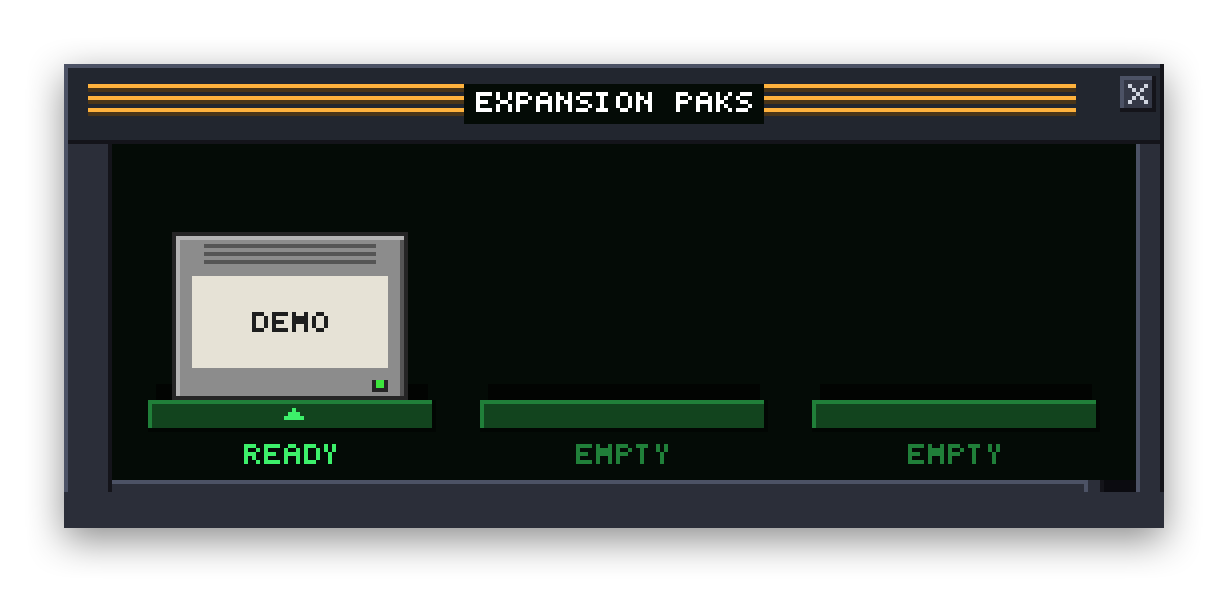
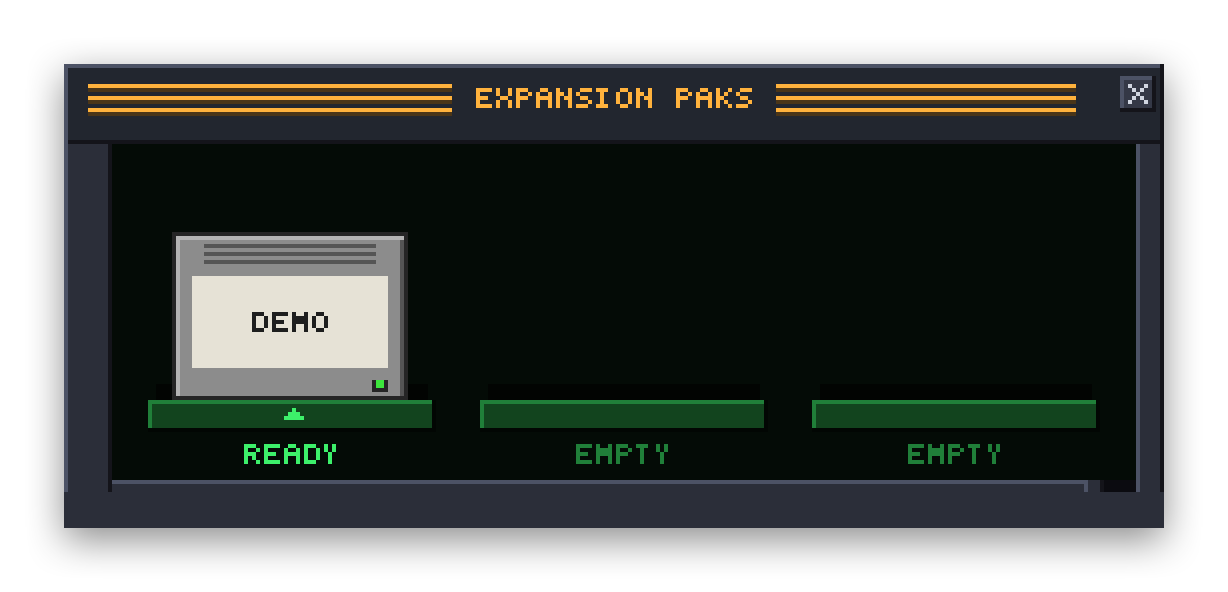
Document the Media Library, with a README picture
The README's Expansion Paks section shows and describes the Media Library
(invented albums with patterned covers, rendered by ShowcaseTests); the
other README pictures are re-rendered too, since the windows' titles now
use the skin's own lettering. PAKS.md describes the window as built and
what's not done yet, and PAK-SDK.md says where a Pak's songs now show.
The search box's placeholder ends in an ellipsis when it doesn't fit.

Changed region(s): [[0.3713, 0.1216, 0.6498, 0.2128]]

diff --git a/Tests/BitampTests/ShowcaseTests.swift b/Tests/BitampTests/ShowcaseTests.swift
@@ -164,6 +164,150 @@ struct ShowcaseTests {
     }
 }
 
+extension ShowcaseTests {
+    /// The Media Library for the README: invented albums with patterned covers, in the
+    /// default skin, at 2× like the main picture's 4× in the README's units.
+    @Test func library() async throws {
+        try FileManager.default.createDirectory(at: folder, withIntermediateDirectories: true)
+        let preferences = Preferences(defaults: UserDefaults(suiteName: "BitampShowcase-\(UUID().uuidString)")!)
+        let pak = ShowcaseLibraryPak()
+        let controller = PlaybackController(engine: PlayerEngine(), preferences: preferences, paks: PakRegistry([pak], preferences: preferences))
+        let view = MediaLibraryView(controller: controller, skin: DefaultSkin(), scale: 1)
+        view.show(pak)
+        for _ in 0..<200 where view.shown?.items.isEmpty != false { try await Task.sleep(for: .milliseconds(5)) }
+        view.moveFocus(to: 0)
+        // Draw once so the covers in view are asked for, then let them arrive.
+        _ = try image(view)
+        try await Task.sleep(for: .milliseconds(200))
+        try compose([Placed(image: try image(view), size: view.pixelSize, origin: .zero)], factor: 2)
+            .write(to: folder.appendingPathComponent("media-library.png"))
+    }
+}
+
+/// Invented albums for the Media Library picture.
+@MainActor
+private final class ShowcaseLibraryPak: Pak {
+    let id = "applemusic"
+    let name = "Apple Music"
+    let schemes: Set<String> = ["showcase"]
+    let isAvailable = true
+    let account = PakAccount.connected(name: nil)
+    var canBrowse: Bool { true }
+
+    static let albums = [
+        ("Analog Weather", "Signal Lost"), ("Neon Tide", "Pixel Harbor"), ("Dial-Up Sunrise", "The Low Bits"),
+        ("Cassette Hearts", "Mira Vance"), ("Midnight Modem", "Kilobyte Club"), ("Paper Planets", "Vector Bloom"),
+        ("Summer on Repeat", "Old Stereo"), ("Harbor Lights", "Pixel Harbor"), ("Static Garden", "Signal Lost"),
+        ("Low Tide FM", "The Low Bits"), ("Glass Arcade", "Mira Vance"), ("Afterglow Drive", "Vector Bloom"),
+        ("Floppy Love", "Kilobyte Club"), ("Backseat Radio", "Old Stereo"), ("Chrome Orchard", "Vector Bloom"),
+        ("Saturday Sprites", "The Low Bits"), ("Night Bus", "Mira Vance"), ("Tape Hiss", "Old Stereo"),
+    ]
+
+    func browse(_ location: PakLocation, after cursor: String?) async throws -> PakPage {
+        switch location {
+        case .root:
+            let library = ["Recently Added", "Albums", "Artists", "Songs", "Playlists"]
+            let catalog = ["For You", "Recently Played", "Top Charts"]
+            func sections(_ titles: [String]) -> [PakItem] {
+                titles.map { .place(PakPlace(id: "section/\($0)", kind: .section, title: $0)) }
+            }
+            return PakPage(shelves: [PakShelf(title: "Library", items: sections(library)),
+                                     PakShelf(title: "Apple Music", items: sections(catalog))])
+        default:
+            return PakPage(shelves: [PakShelf(items: Self.albums.enumerated().map { index, album in
+                .place(PakPlace(id: "album/\(index)", kind: .album, title: album.0, subtitle: album.1,
+                                artwork: PakArtwork("\(index * 7 + 3)")))
+            })])
+        }
+    }
+
+    func image(for artwork: PakArtwork, size: Int) async -> CGImage? {
+        UInt64(artwork.id).map { showcaseCover($0, size: size) }
+    }
+
+    func connect() async throws {}
+    func disconnect() {}
+    func search(_ term: String) async throws -> [PakTrack] { [] }
+    func metadata(for url: URL) async -> PakTrack? { nil }
+    func playback(for url: URL) throws -> PakPlayback { throw CocoaError(.featureUnsupported) }
+}
+
+/// An abstract cover, the same design at any size.
+func showcaseCover(_ seed: UInt64, size: Int) -> CGImage {
+    var random = SplitMix64(seed: seed &* 2654435761)
+    func unit() -> CGFloat { CGFloat(random.next() % 10_000) / 10_000 }
+    let context = CGContext(data: nil, width: size, height: size, bitsPerComponent: 8, bytesPerRow: 0,
+                            space: CGColorSpace(name: CGColorSpace.sRGB)!,
+                            bitmapInfo: CGImageAlphaInfo.premultipliedLast.rawValue)!
+    context.setShouldAntialias(true)
+    let s = CGFloat(size)
+    let hue = unit()
+    func color(_ h: CGFloat, _ sat: CGFloat, _ bright: CGFloat) -> CGColor {
+        NSColor(hue: (h.truncatingRemainder(dividingBy: 1) + 1).truncatingRemainder(dividingBy: 1),
+                saturation: sat, brightness: bright, alpha: 1).cgColor
+    }
+    let top = color(hue, 0.7, 0.35), bottom = color(hue + 0.12, 0.8, 0.85)
+    let accent = color(hue + 0.5, 0.75, 1), light = color(hue + 0.08, 0.25, 1)
+    let gradient = CGGradient(colorsSpace: CGColorSpace(name: CGColorSpace.sRGB), colors: [bottom, top] as CFArray, locations: [0, 1])!
+    context.drawLinearGradient(gradient, start: .zero, end: CGPoint(x: 0, y: s), options: [])
+
+    switch seed % 6 {
+    case 0: // sun over stripes
+        context.setFillColor(accent)
+        context.fillEllipse(in: CGRect(x: s * 0.2, y: s * 0.25, width: s * 0.6, height: s * 0.6))
+        context.setFillColor(bottom)
+        for i in 0..<5 {
+            let y = s * (0.28 + CGFloat(i) * 0.08)
+            context.fill(CGRect(x: 0, y: y, width: s, height: s * 0.012 * CGFloat(5 - i) + 1))
+        }
+    case 1: // rings
+        for i in (0..<6).reversed() {
+            context.setFillColor(i % 2 == 0 ? accent : top)
+            let r = s * 0.08 * CGFloat(i + 1)
+            context.fillEllipse(in: CGRect(x: s * 0.5 - r, y: s * 0.5 - r, width: r * 2, height: r * 2))
+        }
+    case 2: // mountains
+        for (i, shade) in [light, accent, top].enumerated() {
+            context.setFillColor(shade)
+            let base = s * (0.1 + CGFloat(i) * 0.12) - s * 0.2
+            context.beginPath()
+            context.move(to: CGPoint(x: -s * 0.1, y: 0))
+            context.addLine(to: CGPoint(x: s * unit(), y: s * 0.75 - base))
+            context.addLine(to: CGPoint(x: s * 1.1, y: 0))
+            context.fillPath()
+        }
+    case 3: // diagonal stripes
+        context.setFillColor(accent)
+        for i in stride(from: -4, to: 8, by: 2) {
+            let x = s * CGFloat(i) * 0.12
+            context.beginPath()
+            context.move(to: CGPoint(x: x, y: 0))
+            context.addLine(to: CGPoint(x: x + s * 0.12, y: 0))
+            context.addLine(to: CGPoint(x: x + s * 0.72, y: s))
+            context.addLine(to: CGPoint(x: x + s * 0.6, y: s))
+            context.fillPath()
+        }
+    case 4: // bubbles
+        for _ in 0..<7 {
+            context.setFillColor((unit() > 0.5 ? accent : light).copy(alpha: 0.75)!)
+            let r = s * (0.08 + unit() * 0.2)
+            context.fillEllipse(in: CGRect(x: s * unit() - r, y: s * unit() - r, width: r * 2, height: r * 2))
+        }
+    default: // checker floor and a moon
+        context.setFillColor(light)
+        context.fillEllipse(in: CGRect(x: s * 0.55, y: s * 0.58, width: s * 0.28, height: s * 0.28))
+        let cells = 6
+        for row in 0..<3 {
+            for column in 0..<cells where (row + column) % 2 == 0 {
+                context.setFillColor(accent)
+                let w = s / CGFloat(cells)
+                context.fill(CGRect(x: CGFloat(column) * w, y: CGFloat(row) * w * 0.7, width: w, height: w * 0.7))
+            }
+        }
+    }
+    return context.makeImage()!
+}
+
 /// Stands in for the demo Pak in the Expansion Paks picture, without running its program.
 @MainActor
 private final class ShowcasePak: Pak {

diff --git a/Sources/BitampKit/UI/PakView.swift b/Sources/BitampKit/UI/PakView.swift
@@ -79,7 +79,8 @@ enum PakLayout {
 }
 
 /// The Expansion Paks window: each Pak as an N64-style cartridge in a slot. Click a
-/// cartridge to browse it in the Media Library, click the slot's front plate to eject or insert it.
+/// cartridge to browse it in the Media Library, click the slot's front plate to eject or
+/// insert it.
 ///
 /// The frame borrows the playlist's title and side tiles, so `.wsz` skins dress it too;
 /// the cartridges are drawn in fixed colors, as the plastic things they are. Dropping a

diff --git a/Sources/BitampKit/UI/PixelTextBox.swift b/Sources/BitampKit/UI/PixelTextBox.swift
@@ -105,7 +105,7 @@ final class PixelTextBox: NSObject, NSTextFieldDelegate {
         c.context.clip(to: inner)
         let left = Int(inner.minX) - scroll, top = Int(inner.minY)
         if text.isEmpty && editor == nil {
-            ListFont.draw(placeholder, in: c, x: left, y: top, color: dim)
+            ListFont.draw(ListFont.truncate(placeholder, toWidth: Int(inner.width)), in: c, x: left, y: top, color: dim)
         }
         if let editor {
             if selection.length > 0 {

diff --git a/docs/PAKS.md b/docs/PAKS.md
@@ -14,8 +14,8 @@ Optional add-ons that bring other music sources into Bitamp: Apple Music first, 
   - account: status, `connect()` (sign in / authorize), `disconnect()`
   - browsing: search, library, playlists → `[PakTrack]` (URL + metadata)
   - `resolve(url)` → `.stream(URL)` or `.backend(PlaybackBackend)`
-- **UI**: "Add from Apple Music…" opens a search panel that adds to the playlist. A Media Library window will replace it (see below). The **Expansion Paks window** (Window ▸ Expansion Paks, ⌥K) shows each Pak as an N64-style cartridge in a slot: click it to search, click the slot's front plate to eject or insert it, right-click for a menu. Its frame borrows the playlist's title and side tiles, so `.wsz` skins dress it. While a Pak plays audio Bitamp can't see or hear (before macOS 14.2, or without permission to listen), the main window's visualizer shows a small cartridge and the Pak's name; clicking it opens the window. The playlist shows nothing extra.
-- **Inserted or ejected**: every Pak starts inserted. Ejecting turns the service off: its tracks stay in playlists and the saved session, with their titles, but are skipped with "<NAME> PAK IS EJECTED", its search closes, and Bitamp doesn't contact it at all. Titles come from the playlist file (`#EXTINF`, read back since this change); a title never saved shows the track's ID until the Pak is inserted again.
+- **UI**: the **Media Library** (Window ▸ Media Library, ⌥L; File ▸ Browse <Pak>…, ⇧⌘A for the first) browses and searches one Pak and adds to the playlist; see below. The plain search panel it replaced is gone. The **Expansion Paks window** (Window ▸ Expansion Paks, ⌥K) shows each Pak as an N64-style cartridge in a slot: click it to browse it in the Media Library, click the slot's front plate to eject or insert it, right-click for a menu. Its frame borrows the playlist's title and side tiles, so `.wsz` skins dress it. While a Pak plays audio Bitamp can't see or hear (before macOS 14.2, or without permission to listen), the main window's visualizer shows a small cartridge and the Pak's name; clicking it opens the window. The playlist shows nothing extra.
+- **Inserted or ejected**: every Pak starts inserted. Ejecting turns the service off: its tracks stay in playlists and the saved session, with their titles, but are skipped with "<NAME> PAK IS EJECTED", the Media Library closes if it shows it, and Bitamp doesn't contact it at all. Titles come from the playlist file (`#EXTINF`, read back since this change); a title never saved shows the track's ID until the Pak is inserted again.
 
 ## Packaging
 - **Built-in Paks** are separate SwiftPM targets that depend only on `BitampPakKit` (`BitampAppleMusicPak`). The app registers them at launch, inserted. Apple Music has to be built in: MusicKit access is tied to the signed app's bundle ID (`com.ryanromanov.Bitamp`) and team.
@@ -27,8 +27,17 @@ Optional add-ons that bring other music sources into Bitamp: Apple Music first, 
 - Needs: MusicKit enabled for the `com.ryanromanov.Bitamp` App ID (developer portal → Identifiers → App Services), `NSAppleMusicUsageDescription` in Info.plist, Developer ID signing. The listener needs an Apple Music subscription to play catalog songs.
 - Bitamp stays on macOS 13; the Apple Music Pak is checked at runtime and shows as unavailable before macOS 14.
 
-## Media Library (planned)
-A skinned browser to replace the search panel, chosen over a native SwiftUI window: the playlist's frame, a tree sidebar (Search, Library, Playlists, Apple Music), a grid of covers and album pages. Spike results (2026-10-16; artwork from `spikes/musickit --art`, the search box from a throwaway window not kept in the repo):
+## Media Library
+A skinned browser, chosen over a native SwiftUI window (`MediaLibraryView`, `LibraryLayout`, `PixelTextBox`, `CoverCache`):
+- The frame the Expansion Paks window wears (`PanelFrame`: the skin's `gen.bmp`, else the playlist's tiles). A search box and the Pak's sections (`.root`) on the left; on the right a bar with Back, the page's title, PLAY and ADD, then the page: an album or playlist's header, songs as rows, albums, artists and playlists as 44 px covers. A Pak that doesn't browse shows `search ""` and searches.
+- Double-click opens a place or plays a song. PLAY and ADD take the selection, or with nothing selected, a whole album or playlist (`allTracks`). Right-click for Open, Play, Add. Arrow keys move through rows and covers (up and down keep to the column), Shift extends, Return opens or plays, Delete goes back, ⌘F or Tab to the search box. Songs, albums and playlists drag into the playlist where they're dropped (`MediaLibraryView.draggedItems`; the items stay with the view).
+- More of a long section loads near the end of it. Back returns to where the page was scrolled. Loads carry a generation number, so a late answer about an earlier page is dropped.
+- A panel in the window group (`.library`, layout name "LibraryWindow"): hidden by default, resizes from its bottom-right corner by the playlist's tiles (25 × 29), keeps its width across launches (`WindowGroup.place` takes a saved size), and the first time it opens off screen it goes beside the main window. Ejecting or removing its Pak empties and hides it. Left open at quit, it opens on the first Pak that can show it.
+- It redraws only when something changes (`SkinnedView.redrawsEveryFrame`), or every frame while the search box is edited, for the caret. With it open the app went from 25–35% of a core to 15–19%; the rest is the playlist and main window, which redraw every frame.
+- Covers are kept at the sizes drawn (44 and 64 px, averaged down from 3× that) in memory and in `~/Library/Caches/com.ryanromanov.Bitamp/Covers/<pak>`, found by Pak, artwork id and size, so a Pak's artwork ids must stay the same for the same picture. Apple Music's ids name what the art belongs to, since library art addresses change every time MusicKit is asked. Covers that scroll away stop loading.
+- Not yet: accessibility (VoiceOver sees nothing in skinned windows), shade mode, remembering which Pak and section were open, Japanese input in the search box (untested).
+
+Spike results (2026-10-16; artwork from `spikes/musickit --art`, the search box from a throwaway window not kept in the repo):
 - **Artwork works.** Library items give `musicKit://` URLs that only `ArtworkImage` draws; captured from a never-shown window in 110–160 ms (some ~3 s, so load in the background and cache). Catalog items give https URLs plus background and text colors; library items have no colors. Covers shrink to 44 px by area averaging. Some library "albums" have empty titles and 16:9 art and need filtering and a square crop.
 - **Search box: a hidden `NSTextField` with the canvas drawing it** in the pixel font (selection, marked text and caret from the field editor; clicks mapped to offsets with `ListFont` widths). Typing, selection, clipboard, dead keys and the emoji picker work; Japanese input untested.
 - Text fields need Edit ▸ Undo/Redo/Cut/Copy/Paste in the main menu for their shortcuts (done, PR #31).
@@ -55,7 +64,7 @@ Since February 2026, Development Mode apps need a Premium owner and allow five u
 ## Order
 1. Spike: sign in, search, and play one song with `ApplicationMusicPlayer` from a Developer ID–signed build.
 2. `PlaybackBackend` and `BitampPakKit`, with local files as the built-in source. Nothing changes for users. **Done** (`Sources/BitampPakKit`, `PakRegistry`, `PakTests`). `.stream` only plays local files for now, since `PlayerEngine` reads through `AVAudioFile`; a stream Pak downloads to a cache file until the engine learns HTTP.
-3. Apple Music Pak. **Built** (`Sources/BitampAppleMusicPak`, File ▸ Add from Apple Music… ⇧⌘A). Library search and playback tested through the spike's `--pak` mode: play, pause, resume, seek and the end of a song all work. Catalog search and streaming wait on the signed build. Notes:
+3. Apple Music Pak. **Built** (`Sources/BitampAppleMusicPak`, then File ▸ Add from Apple Music… ⇧⌘A, now the Media Library). Library search and playback tested through the spike's `--pak` mode: play, pause, resume, seek and the end of a song all work. Catalog search and streaming wait on the signed build. Notes:
    - Library songs report `duration` in milliseconds on macOS 27.2; `SongStore.duration(of:)` corrects it.
    - MusicKit doesn't announce the end of a song; the backend polls the player every 0.25 s and treats "stopped or paused within 1.5 s of the end" as the end. A pause from outside Bitamp (media keys) shows as paused.
    - Bitamp's volume and balance don't reach Apple Music: `ApplicationMusicPlayer` has no volume control.

diff --git a/README.md b/README.md
@@ -24,7 +24,7 @@ Bitamp isn't affiliated with or endorsed by Winamp or Nullsoft. Its default skin
 - Shade mode for each window (double-click a title bar), and three window sizes: 1×, 1.5× and 2× (the default)
 - Spectrum and oscilloscope visualizer, shuffle and repeat, `.m3u` playlists
 - Retro Sound (Playback ▸ Retro Sound, or T): an 8-bit crush that plays the song as 8-bit samples, or an experimental chiptune cover that transcribes the song, follows the sung melody for the lead, and plays it on pulse, triangle and noise voices, with some of the original mixed in if you like
-- [Expansion Paks](#expansion-paks): other music sources in Bitamp's playlist. Apple Music comes built in, and anyone can write more
+- [Expansion Paks](#expansion-paks): other music sources in Bitamp's playlist, browsed in a skinned Media Library with album art. Apple Music comes built in, and anyone can write more
 
 ## Expansion Paks
 
@@ -32,15 +32,21 @@ Bitamp isn't affiliated with or endorsed by Winamp or Nullsoft. Its default skin
   <img src="docs/images/expansion-paks.png" width="307" alt="The Expansion Paks window: a Demo cartridge plugged into the first of three slots, marked Ready">
 </p>
 
-An Expansion Pak adds a music source to Bitamp: a music server, a radio directory, an archive, anything with songs. Each one is a cartridge in the Expansion Paks window (Window ▸ Expansion Paks, ⌥K). Click a cartridge to search it and add songs to your playlist, next to your own files. Songs from Paks you install play like local files, with the equalizer, visualizer and Retro Sound. Click the slot under a cartridge to eject it, which switches that source off until you put it back.
+An Expansion Pak adds a music source to Bitamp: a music server, a radio directory, an archive, anything with songs. Each one is a cartridge in the Expansion Paks window (Window ▸ Expansion Paks, ⌥K). Click a cartridge to browse it in the Media Library and add songs to your playlist, next to your own files. Songs from Paks you install play like local files, with the equalizer, visualizer and Retro Sound. Click the slot under a cartridge to eject it, which switches that source off until you put it back.
 
-**Apple Music** comes plugged in. Search your library and the whole Apple Music catalog, and mix its songs into any playlist. It needs macOS 14 or later, and an Apple Music subscription for catalog songs. Apple Music plays its songs itself, protected, so the equalizer and Retro Sound can't reach them, and they play at your Mac's volume; Bitamp dims those controls while one plays. The visualizer still moves with them on macOS 14.2 or later: the first time, macOS asks whether Bitamp may listen to other apps' audio, and Bitamp listens only to Apple Music's player.
+<p align="center">
+  <img src="docs/images/media-library.png" width="507" alt="The Media Library in the default skin: a search box and sections on the left, a grid of album covers with titles and artists on the right">
+</p>
+
+**The Media Library** (Window ▸ Media Library, ⌥L, or File ▸ Browse Apple Music…, ⇧⌘A) wears your skin like the playlist does. Search, or pick a section on the left; albums, artists and playlists show as covers, songs as rows. Double-click to open an album or play a song, press Play or Add for what's selected (or the whole album), or drag songs and albums into the playlist where you want them. The arrow keys move through it, and it resizes from its bottom-right corner. Covers are kept on your Mac, so they come back at once.
+
+**Apple Music** comes plugged in. Browse your library (recently added, albums, artists, songs, playlists), and with a subscription For You, recently played and the top charts; search your library and the whole catalog; and mix its songs into any playlist. It needs macOS 14 or later, and an Apple Music subscription for catalog songs. Apple Music plays its songs itself, protected, so the equalizer and Retro Sound can't reach them, and they play at your Mac's volume; Bitamp dims those controls while one plays. The visualizer still moves with them on macOS 14.2 or later: the first time, macOS asks whether Bitamp may listen to other apps' audio, and Bitamp listens only to Apple Music's player.
 
 To install a Pak, double-click its `.bitpak`, drop it on Bitamp, or use File ▸ Install Expansion Pak…. A Pak is a program, so Bitamp asks first; only install Paks from people you trust.
 
 **Try the demo Pak.** It plays a few public-domain tunes (Ode to Joy, Für Elise, Greensleeves…) as chiptunes, made on your Mac, with a choice of waveform. Build it with `scripts/make-pak.sh` and double-click the `Demo.bitpak` it makes.
 
-**Write your own.** A Pak is a folder with a small manifest and a program that answers a few questions in JSON: search, describe a track, and say where its audio is. Write it in Swift with the `BitampPakSDK` library in this package, or in any language. [Writing an Expansion Pak](docs/PAK-SDK.md) has everything, including a complete Pak in a few dozen lines of Python, and `Bitamp --check-pak` tries a Pak and tells you what to fix.
+**Write your own.** A Pak is a folder with a small manifest and a program that answers a few questions in JSON: search, describe a track, and say where its audio is. Its songs show in the Media Library's search. Write it in Swift with the `BitampPakSDK` library in this package, or in any language. [Writing an Expansion Pak](docs/PAK-SDK.md) has everything, including a complete Pak in a few dozen lines of Python, and `Bitamp --check-pak` tries a Pak and tells you what to fix.
 
 ## Download
 

diff --git a/docs/PAK-SDK.md b/docs/PAK-SDK.md
@@ -4,7 +4,7 @@
   <img src="images/expansion-paks.png" width="307" alt="The Expansion Paks window with the Demo Pak plugged in">
 </p>
 
-An Expansion Pak adds a music source to Bitamp: a server, a radio directory, an archive. Bitamp shows each Pak as a cartridge in its Expansion Paks window (⌥K). Its songs can be searched, added to the playlist and played like local files, with the equalizer, visualizer and Retro Sound all working.
+An Expansion Pak adds a music source to Bitamp: a server, a radio directory, an archive. Bitamp shows each Pak as a cartridge in its Expansion Paks window (⌥K). Its songs can be searched in the Media Library, added to the playlist and played like local files, with the equalizer, visualizer and Retro Sound all working.
 
 A Pak is a program. Bitamp starts it, asks it questions over standard input and output, and plays the audio it points to. You can write one in Swift with the small SDK in this repository, or in any language that can read and write lines of JSON.
 
@@ -199,7 +199,7 @@ Save it as `hello.py` in `Hello.bitpak`, `chmod +x` it, and point `pak.json`'s `
   It reads `pak.json` as installing does, then starts the program and has the same conversation Bitamp has, using the first track it finds. It catches what usually goes wrong: answers that aren't flushed, other output on standard output, a `track` that forgets an id `search` gave, a file that isn't there, and a program that doesn't exit. Settings take their defaults unless you give `--setting key=value`, once per setting. What the program writes to standard error is shown as it runs. It exits with status 0 when there's nothing to fix.
 - Install by double-clicking the `.bitpak`, dropping it on Bitamp, or File ▸ Install Expansion Pak…. Installing a Pak with the same id replaces the old one.
 - Installed Paks live in `~/Library/Application Support/Bitamp/Paks`; their caches in `~/Library/Caches/com.ryanromanov.Bitamp/Paks`.
-- Right-click the cartridge to search, change settings, eject or remove it.
+- Click the cartridge to open the Pak in the Media Library, where it shows what `search ""` gives and searches as the user types. Right-click it to browse, change settings, eject or remove it.
 
 ## Trust
 
@@ -209,4 +209,4 @@ A Pak runs with the same permissions as the person who installed it, so Bitamp a
 
 - **Streaming.** Bitamp downloads the whole file before it starts playing. Fine for songs on a home server, not for endless radio streams.
 - **Paks that play audio themselves**, as a streaming service's own player would, can't be third-party yet; a third-party Pak always hands Bitamp audio to play.
-- **Album art and browsing** beyond search.
+- **Album art and browsing** beyond search. The Media Library browses the built-in Apple Music Pak (sections, albums, artists, playlists, covers); third-party Paks get the same once its shape has settled. See [PAKS.md](PAKS.md).
